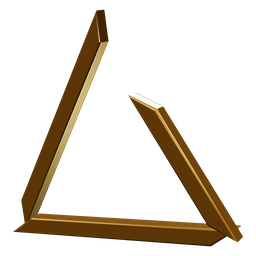
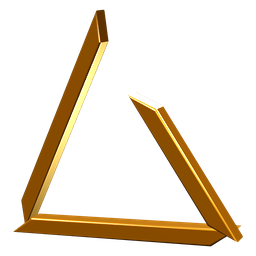
fix(landing): Schlicht-Vorschau — Platzhalter, Beta-Link, helleres Zeichen
- Platzhalter auf „Frage stellen …“ gekürzt: Bei 390 px brach der lange
  Text in eine abgeschnittene zweite Zeile um.
- Beta-Link ohne doppeltes „kostenlos testen“.
- Gold-Zeichen (256 px, transparent) aufgehellt: Ohne den dunklen
  Render-Hintergrund wirkte es auf #050506 bräunlich.

Claude-Session: https://claude.ai/code/session_01HPrkwGcqkFk3dZd9E4epn1

Changed region(s): [[0.0625, 0.0312, 0.9688, 0.9688]]

diff --git a/src/pages/LandingSchlicht.tsx b/src/pages/LandingSchlicht.tsx
@@ -73,7 +73,7 @@ export function LandingSchlicht() {
             e.target.style.height = `${Math.min(e.target.scrollHeight, 200)}px`;
           }}
           onKeyDown={onKey}
-          placeholder="Frage zu DSGVO oder EU AI Act stellen …"
+          placeholder="Frage stellen …"
           className="max-h-[200px] min-h-[44px] flex-1 resize-none bg-transparent px-3 py-2.5 text-[15px] text-[#ededee] placeholder:text-[#71717a] focus:outline-none"
           disabled={chat.isLoading}
         />
@@ -206,7 +206,7 @@ export function LandingSchlicht() {
               className="mt-8 text-[13px] underline-offset-4 hover:underline"
               style={{ color: GOLD, fontFamily: FONT_MONO }}
             >
-              {BETA.headline} → Kostenlos testen
+              Offene Beta · Kostenlos testen →
             </Link>
           )}
         </main>
